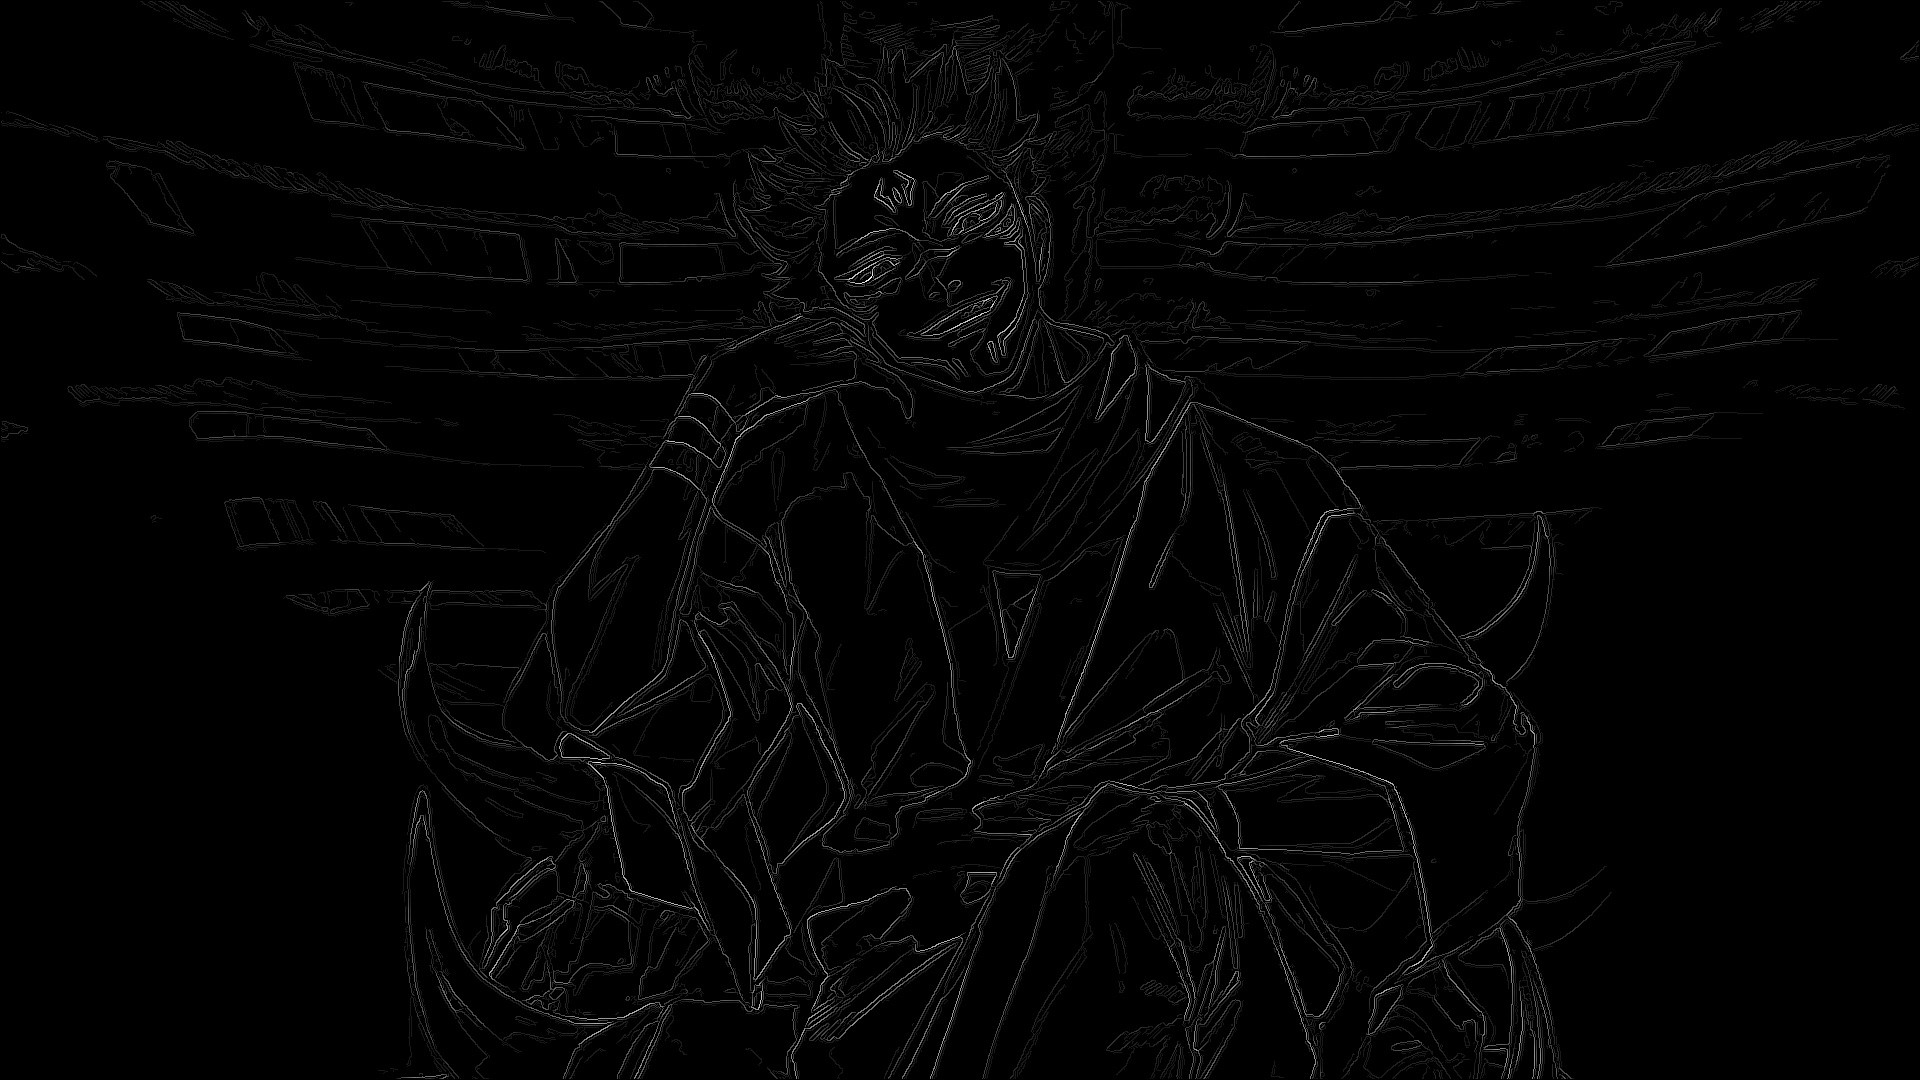
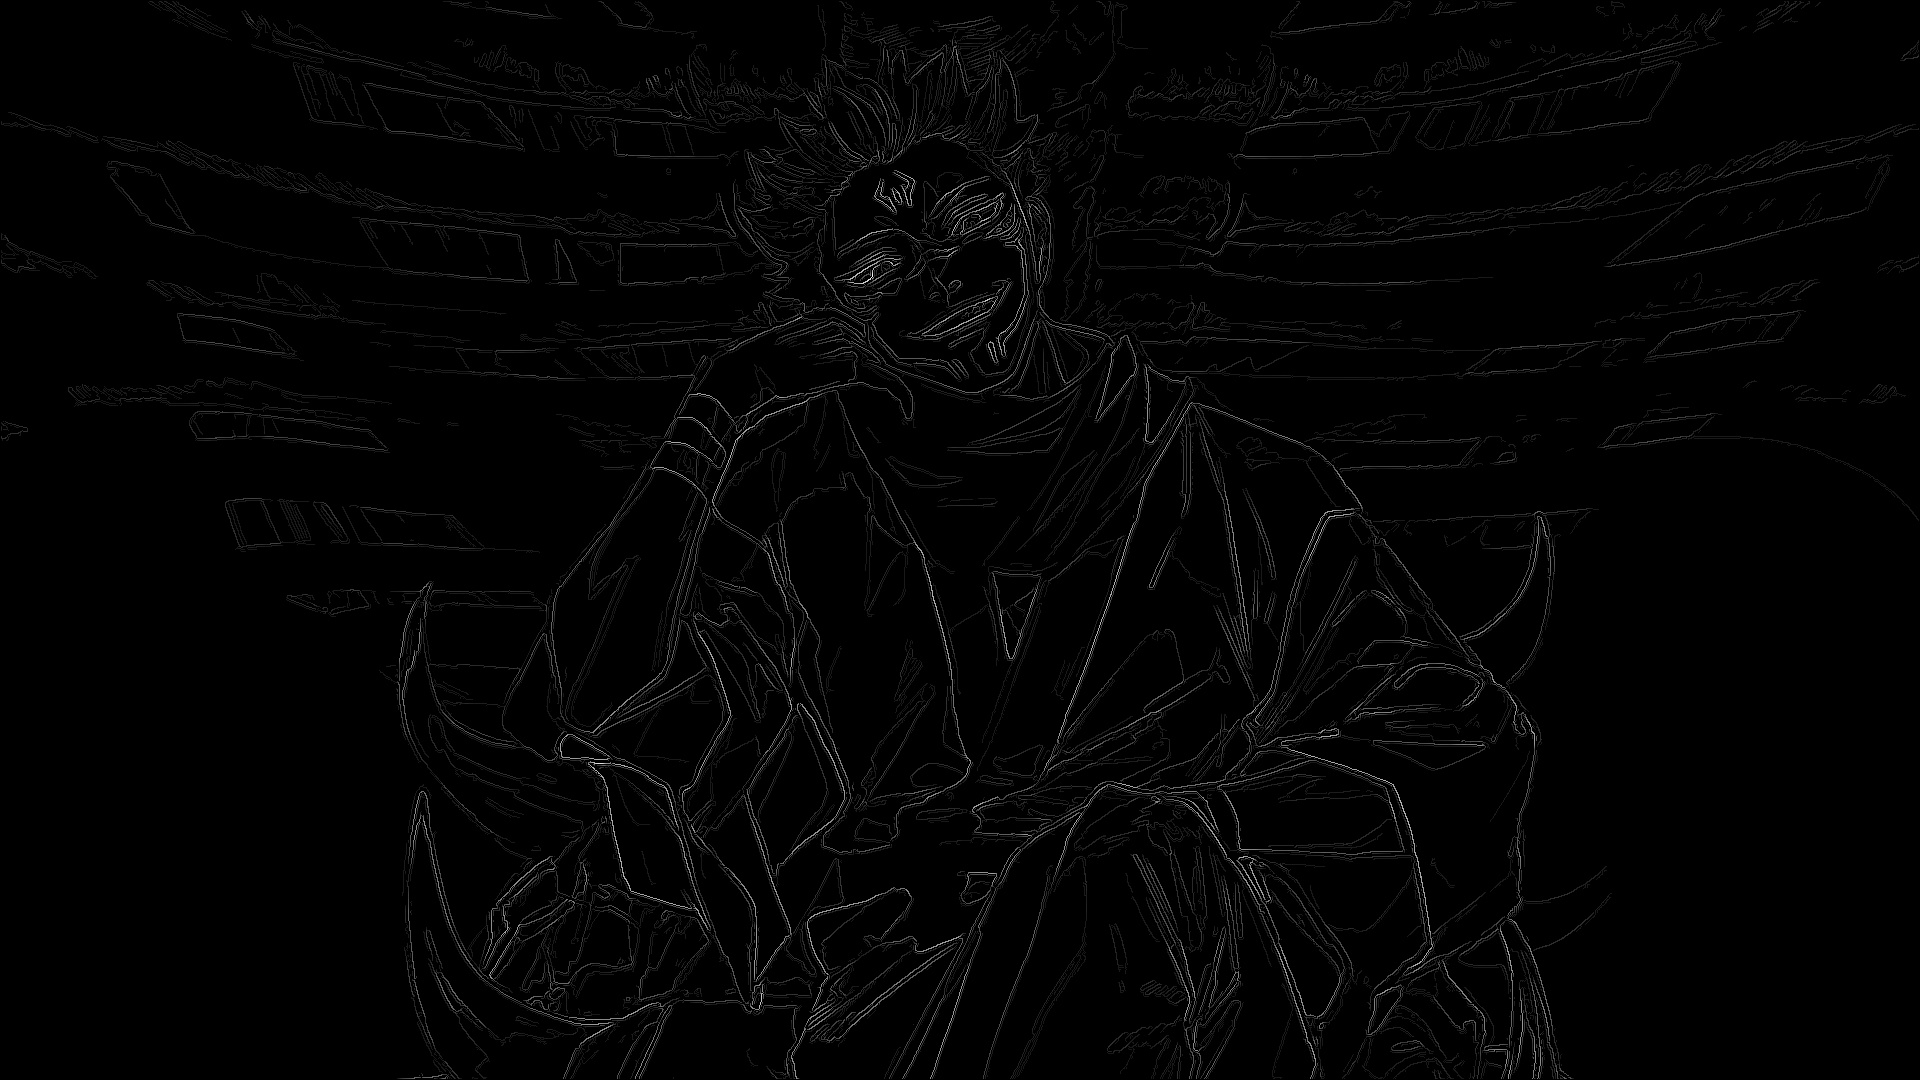
switch to std::vector

diff --git a/canny.cpp b/canny.cpp
@@ -10,24 +10,25 @@ void cannyEdgeDetection(std::string readLocation, std::string writeLocation, dou
     cv::Mat img = cv::imread(readLocation);
 
     // READ_FILE:
+
     uint8_t* pixelPtr = (uint8_t*)img.data;
     int sizeRows = img.rows;
     int sizeCols = img.cols;
     int sizeDepth = img.channels();
-    int* pixels = imgToArray(img, sizeRows, sizeCols, sizeDepth, pixelPtr);
+    std::vector<int> pixels = imgToArray(img, pixelPtr, sizeRows, sizeCols, sizeDepth);
 
     arrayToImg(pixels, pixelPtr, sizeRows, sizeCols, sizeDepth);
     // cv::imshow("Original", img);
 
     // GAUSSIAN_BLUR:
 
-    double kernel[5][5] = {{2.0, 4.0, 5.0, 4.0, 2.0},
-                           {4.0, 9.0, 12.0, 9.0, 4.0},
-                           {5.0, 12.0, 15.0, 12.0, 5.0},
-                           {4.0, 9.0, 12.0, 9.0, 4.0},
-                           {2.0, 4.0, 5.0, 4.0, 2.0}};
+    std::vector<std::vector<double>> kernel = {{2.0, 4.0, 5.0, 4.0, 2.0},
+                                               {4.0, 9.0, 12.0, 9.0, 4.0},
+                                               {5.0, 12.0, 15.0, 12.0, 5.0},
+                                               {4.0, 9.0, 12.0, 9.0, 4.0},
+                                               {2.0, 4.0, 5.0, 4.0, 2.0}};
     double kernelConst = (1.0 / 159.0);
-    int* pixelsBlur = gaussianBlur(pixels, kernel, kernelConst, sizeRows, sizeCols, sizeDepth);
+    std::vector<int> pixelsBlur = gaussianBlur(pixels, kernel, kernelConst, sizeRows, sizeCols, sizeDepth);
 
     arrayToImg(pixelsBlur, pixelPtr, sizeRows, sizeCols, sizeDepth);
     // cv::imshow("Blurred", img);
@@ -37,52 +38,49 @@ void cannyEdgeDetection(std::string readLocation, std::string writeLocation, dou
     cv::Mat imgGrayscale(sizeRows, sizeCols, CV_8UC1, cv::Scalar(0));
     uint8_t* pixelPtrGray = (uint8_t*)imgGrayscale.data;
 
-    int* pixelsGray = rgbToGrayscale(pixels, sizeRows, sizeCols, sizeDepth);
+    std::vector<int> pixelsGray = rgbToGrayscale(pixelsBlur, sizeRows, sizeCols, sizeDepth);
     arrayToImg(pixelsGray, pixelPtrGray, sizeRows, sizeCols, 1);
     // cv::imshow("Grayscale", imgGrayscale);
 
     // CANNY_FILTER:
-    int* pixelsCanny = cannyFilter(pixelsGray, pixelPtrGray, sizeRows, sizeCols, 1, lowerThreshold, higherThreshold);
+
+    std::vector<int> pixelsCanny = cannyFilter(pixelsGray, sizeRows, sizeCols, 1, lowerThreshold, higherThreshold);
     arrayToImg(pixelsCanny, pixelPtrGray, sizeRows, sizeCols, 1);
 
     cv::imshow("CannyEdgeDetection", imgGrayscale);
     cv::waitKey(0);
 
     cv::imwrite(writeLocation, imgGrayscale);
-
-    delete[] pixels;
-    delete[] pixelsGray;
-    delete[] pixelsCanny;
 }
 
-int* imgToArray(cv::Mat img, int sizeRows, int sizeCols, int sizeDepth, uint8_t* pixelPtr) {
-    int* pixels = new int[sizeRows * sizeCols * sizeDepth];
+std::vector<int> imgToArray(cv::Mat img, uint8_t* pixelPtr, int sizeRows, int sizeCols, int sizeDepth) {
+    std::vector<int> pixels(sizeRows * sizeCols * sizeDepth);
     for (int i = 0; i < sizeRows; i++) {
         for (int j = 0; j < sizeCols; j++) {
             for (int k = 0; k < sizeDepth; k++) {
+                // converting BGR to RGB colors
                 pixels[i * sizeCols * sizeDepth + j * sizeDepth + k] =
-                    // converting BGR to RGB
-                    pixelPtr[i * sizeCols * sizeDepth + j * sizeDepth + 2 - k];
+                    (int)pixelPtr[i * sizeCols * sizeDepth + j * sizeDepth + 2 - k];
             }
         }
     }
     return pixels;
 }
 
-void arrayToImg(int* pixels, uint8_t* pixelPtr, int sizeRows, int sizeCols, int sizeDepth) {
-    int* result = new int[sizeRows * sizeCols * sizeDepth];
+void arrayToImg(std::vector<int>& pixels, uint8_t* pixelPtr, int sizeRows, int sizeCols, int sizeDepth) {
     for (int i = 0; i < sizeRows; i++) {
         for (int j = 0; j < sizeCols; j++) {
             for (int k = 0; k < sizeDepth; k++) {
                 pixelPtr[i * sizeCols * sizeDepth + j * sizeDepth + k] =
-                    pixels[i * sizeCols * sizeDepth + j * sizeDepth + (sizeDepth - 1 - k)];
+                    (uint8_t)pixels[i * sizeCols * sizeDepth + j * sizeDepth + (sizeDepth - 1 - k)];
             }
         }
     }
     return;
 }
 
-int* gaussianBlur(int* pixels, double kernel[5][5], double kernelConst, int sizeRows, int sizeCols, int sizeDepth) {
+std::vector<int> gaussianBlur(std::vector<int>& pixels, std::vector<std::vector<double>>& kernel, double kernelConst, int sizeRows, int sizeCols, int sizeDepth) {
+    std::vector<int> pixelsBlur(sizeRows * sizeCols * sizeDepth);
     for (int i = 0; i < sizeRows; i++) {
         for (int j = 0; j < sizeCols; j++) {
             for (int k = 0; k < sizeDepth; k++) {
@@ -97,35 +95,33 @@ int* gaussianBlur(int* pixels, double kernel[5][5], double kernelConst, int size
                         }
                     }
                 }
-                pixels[i * sizeCols * sizeDepth + j * sizeDepth + k] = (int)(sum / sumKernel);
+                pixelsBlur[i * sizeCols * sizeDepth + j * sizeDepth + k] = (int)(sum / sumKernel);
             }
         }
     }
-    return pixels;
+    return pixelsBlur;
 }
 
-int* rgbToGrayscale(int* pixels, int sizeRows, int sizeCols, int sizeDepth) {
-    int* pixelsGray = new int[sizeRows * sizeCols];
+std::vector<int> rgbToGrayscale(std::vector<int>& pixels, int sizeRows, int sizeCols, int sizeDepth) {
+    std::vector<int> pixelsGray(sizeRows * sizeCols);
     for (int i = 0; i < sizeRows; i++) {
         for (int j = 0; j < sizeCols; j++) {
             int sum = 0;
             for (int k = 0; k < sizeDepth; k++) {
                 sum = sum + pixels[i * sizeCols * sizeDepth + j * sizeDepth + k];
             }
-            pixelsGray[i * sizeCols + j] = (sum / sizeDepth);
+            pixelsGray[i * sizeCols + j] = (int)(sum / sizeDepth);
         }
     }
     return pixelsGray;
 }
 
-int* cannyFilter(int* pixels, uint8_t* pixelPtrGray, int sizeRows, int sizeCols, int sizeDepth, double lowerThreshold, double higherThreshold) {
-    // intializing before canny
-    int* pixelsCanny = new int[sizeRows * sizeCols];
+std::vector<int> cannyFilter(std::vector<int>& pixels, int sizeRows, int sizeCols, int sizeDepth, double lowerThreshold, double higherThreshold) {
+    std::vector<int> pixelsCanny(sizeRows * sizeCols);
     int gx[3][3] = {{-1, 0, 1}, {-2, 0, 2}, {-1, 0, 1}};
     int gy[3][3] = {{-1, -2, -1}, {0, 0, 0}, {1, 2, 1}};
     double* G = new double[sizeRows * sizeCols];
-    int* direction = new int[sizeRows * sizeCols];
-    int* theta = new int[sizeRows * sizeCols];
+    std::vector<int> theta(sizeRows * sizeCols);
     double largestG = 0;
 
     // perform canny edge detection on everything but the edges
@@ -152,55 +148,34 @@ int* cannyFilter(int* pixels, uint8_t* pixelPtrGray, int sizeRows, int sizeCols,
             if (i == 1) {
                 G[i * sizeCols + j - 1] = G[i * sizeCols + j];
                 theta[i * sizeCols + j - 1] = theta[i * sizeCols + j];
-            }
-            if (j == 1) {
+            } else if (j == 1) {
                 G[(i - 1) * sizeCols + j] = G[i * sizeCols + j];
                 theta[(i - 1) * sizeCols + j] = theta[i * sizeCols + j];
-            }
-            if (i == sizeRows - 1) {
+            } else if (i == sizeRows - 1) {
                 G[i * sizeCols + j + 1] = G[i * sizeCols + j];
                 theta[i * sizeCols + j + 1] = theta[i * sizeCols + j];
-            }
-            if (j == sizeCols - 1) {
+            } else if (j == sizeCols - 1) {
                 G[(i + 1) * sizeCols + j] = G[i * sizeCols + j];
                 theta[(i + 1) * sizeCols + j] = theta[i * sizeCols + j];
             }
+
             // setting the corners
             if (i == 1 && j == 1) {
                 G[(i - 1) * sizeCols + j - 1] = G[i * sizeCols + j];
                 theta[(i - 1) * sizeCols + j - 1] = theta[i * sizeCols + j];
-            }
-            if (i == 1 && j == sizeCols - 1) {
+            } else if (i == 1 && j == sizeCols - 1) {
                 G[(i - 1) * sizeCols + j + 1] = G[i * sizeCols + j];
                 theta[(i - 1) * sizeCols + j + 1] = theta[i * sizeCols + j];
-            }
-            if (i == sizeRows - 1 && j == 1) {
+            } else if (i == sizeRows - 1 && j == 1) {
                 G[(i + 1) * sizeCols + j - 1] = G[i * sizeCols + j];
                 theta[(i + 1) * sizeCols + j - 1] = theta[i * sizeCols + j];
-            }
-            if (i == sizeRows - 1 && j == sizeCols - 1) {
+            } else if (i == sizeRows - 1 && j == sizeCols - 1) {
                 G[(i + 1) * sizeCols + j + 1] = G[i * sizeCols + j];
                 theta[(i + 1) * sizeCols + j + 1] = theta[i * sizeCols + j];
             }
 
             // round to the nearest 45 degrees
-            if (theta[i * sizeCols + j] >= 23 && theta[i * sizeCols + j] < 68) {
-                direction[i * sizeCols + j] = 45;
-            } else if (theta[i * sizeCols + j] >= 68 && theta[i * sizeCols + j] < 113) {
-                direction[i * sizeCols + j] = 90;
-            } else if (theta[i * sizeCols + j] >= 113 && theta[i * sizeCols + j] < 157) {
-                direction[i * sizeCols + j] = 135;
-            } else if (theta[i * sizeCols + j] >= 157 && theta[i * sizeCols + j] < 203) {
-                direction[i * sizeCols + j] = 180;
-            } else if (theta[i * sizeCols + j] >= 203 && theta[i * sizeCols + j] < 247) {
-                direction[i * sizeCols + j] = 225;
-            } else if (theta[i * sizeCols + j] >= 247 && theta[i * sizeCols + j] < 293) {
-                direction[i * sizeCols + j] = 270;
-            } else if (theta[i * sizeCols + j] >= 293 && theta[i * sizeCols + j] < 337) {
-                direction[i * sizeCols + j] = 315;
-            } else {
-                direction[i * sizeCols + j] = 0;
-            }
+            theta[i * sizeCols + j] = round(theta[i * sizeCols + j] / 45) * 45;
         }
     }
     for (int i = 1; i < sizeRows - 1; i++) {
@@ -211,22 +186,19 @@ int* cannyFilter(int* pixels, uint8_t* pixelPtrGray, int sizeRows, int sizeCols,
     // non-maximum suppression
     for (int i = 1; i < sizeRows - 1; i++) {
         for (int j = 1; j < sizeCols - 1; j++) {
-            if (direction[i * sizeCols + j] == 0 || direction[i * sizeCols + j] == 180) {
+            if (theta[i * sizeCols + j] == 0 || theta[i * sizeCols + j] == 180) {
                 if (G[i * sizeCols + j] < G[i * sizeCols + j - 1] || G[i * sizeCols + j] < G[i * sizeCols + j + 1]) {
                     G[i * sizeCols + j] = 0;
                 }
-            }
-            if (direction[i * sizeCols + j] == 45 || direction[i * sizeCols + j] == 225) {
+            } else if (theta[i * sizeCols + j] == 45 || theta[i * sizeCols + j] == 225) {
                 if (G[i * sizeCols + j] < G[(i + 1) * sizeCols + j + 1] || G[i * sizeCols + j] < G[(i - 1) * sizeCols + j - 1]) {
                     G[i * sizeCols + j] = 0;
                 }
-            }
-            if (direction[i * sizeCols + j] == 90 || direction[i * sizeCols + j] == 270) {
+            } else if (theta[i * sizeCols + j] == 90 || theta[i * sizeCols + j] == 270) {
                 if (G[i * sizeCols + j] < G[(i + 1) * sizeCols + j] || G[i * sizeCols + j] < G[(i - 1) * sizeCols + j]) {
                     G[i * sizeCols + j] = 0;
                 }
-            }
-            if (direction[i * sizeCols + j] == 135 || direction[i * sizeCols + j] == 315) {
+            } else {
                 if (G[i * sizeCols + j] < G[(i + 1) * sizeCols + j - 1] || G[i * sizeCols + j] < G[(i - 1) * sizeCols + j + 1]) {
                     G[i * sizeCols + j] = 0;
                 }
@@ -237,10 +209,9 @@ int* cannyFilter(int* pixels, uint8_t* pixelPtrGray, int sizeRows, int sizeCols,
     }
 
     // double threshold
-    int count = 0;
-    int changes = 1;
-    while (changes == 1) {
-        changes = 0;
+    bool changes;
+    do {
+        changes = false;
         for (int i = 1; i < sizeRows - 1; i++) {
             for (int j = 1; j < sizeCols - 1; j++) {
                 if (G[i * sizeCols + j] < (lowerThreshold * largestG)) {
@@ -251,26 +222,23 @@ int* cannyFilter(int* pixels, uint8_t* pixelPtrGray, int sizeRows, int sizeCols,
                     int tempG = G[i * sizeCols + j];
                     G[i * sizeCols + j] = 0;
                     for (int x = -1; x <= 1; x++) {
+                        bool breakNestedLoop = false;
                         for (int y = -1; y <= 1; y++) {
                             if (x == 0 && y == 0) { continue; }
                             if (G[(i + x) * sizeCols + (j + y)] >= (higherThreshold * largestG)) {
                                 G[i * sizeCols + j] = (higherThreshold * largestG);
-                                changes = 1;
+                                changes = true;
+                                breakNestedLoop = true;
                                 break;
                             }
                         }
+                        if (breakNestedLoop) { break; }
                     }
                 }
                 pixelsCanny[i * sizeCols + j] = (int)(G[i * sizeCols + j] * (255.0 / largestG));
             }
         }
-        count++;
-        if (count > (sizeRows * sizeCols)) {
-            std::cout << "The count was exceeded.\n";
-            return NULL;
-        }
-    }
-    // std::cout << count << "\n";
+    } while (changes);
 
     return pixelsCanny;
 }

diff --git a/canny.h b/canny.h
@@ -3,6 +3,7 @@
 #include <math.h>
 
 #include <iostream>
+#include <vector>
 // #include <fstream>
 
 #include <opencv2/highgui.hpp>
@@ -10,8 +11,8 @@
 // #include <opencv2/imgproc.hpp>
 
 void cannyEdgeDetection(std::string readLocation, std::string writeLocation, double lowerThreshold, double higherThreshold);
-int* imgToArray(cv::Mat img, int sizeRows, int sizeCols, int sizeDepth, uint8_t* pixelPtr);
-void arrayToImg(int* pixels, uint8_t* pixelPtr, int sizeRows, int sizeCols, int sizeDepth);
-int* gaussianBlur(int* pixels, double kernel[5][5], double kernelConst, int sizeRows, int sizeCols, int sizeDepth);
-int* rgbToGrayscale(int* pixels, int sizeRows, int sizeCols, int sizeDepth);
-int* cannyFilter(int* pixels, uint8_t* pixelPtr, int sizeRows, int sizeCols, int sizeDepth, double lowerThreshold, double higherThreshold);
+std::vector<int> imgToArray(cv::Mat img, uint8_t* pixelPtr, int sizeRows, int sizeCols, int sizeDepth);
+void arrayToImg(std::vector<int>& pixels, uint8_t* pixelPtr, int sizeRows, int sizeCols, int sizeDepth);
+std::vector<int> gaussianBlur(std::vector<int>& pixels, std::vector<std::vector<double>>& kernel, double kernelConst, int sizeRows, int sizeCols, int sizeDepth);
+std::vector<int> rgbToGrayscale(std::vector<int>& pixels, int sizeRows, int sizeCols, int sizeDepth);
+std::vector<int> cannyFilter(std::vector<int>& pixels, int sizeRows, int sizeCols, int sizeDepth, double lowerThreshold, double higherThreshold);
